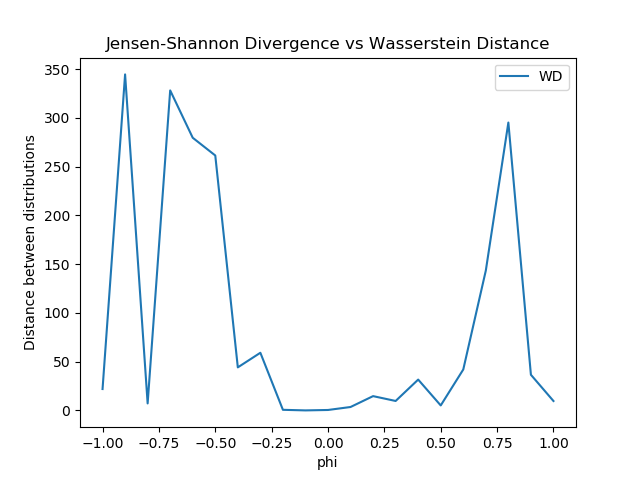
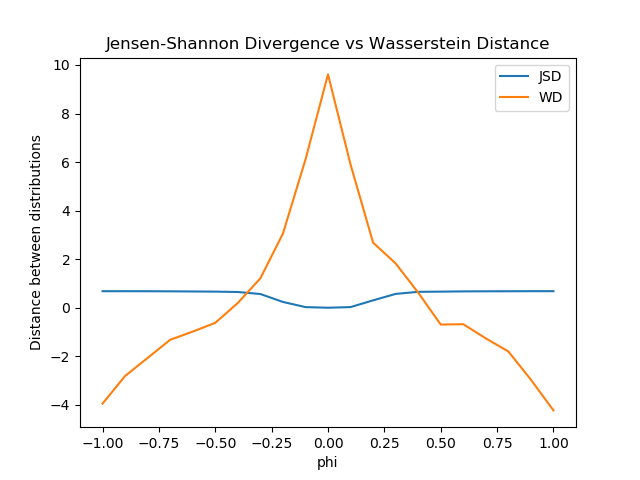
Grad clip z for q1_3

diff --git a/problem1/q1_3.py b/problem1/q1_3.py
@@ -17,7 +17,7 @@ from assignment.problem1.loss_functions import jsd_loss, wd_loss
 
 
 def plot(phi, jsds, wds):
-    #plt.plot(phi, jsds, label='JSD')
+    plt.plot(phi, jsds, label='JSD')
     plt.plot(phi, wds, label='WD')
     plt.title('Jensen-Shannon Divergence vs Wasserstein Distance')
     plt.xlabel('phi')
@@ -51,21 +51,21 @@ if __name__ == '__main__':
         print('PHI:', ph)
 
         # Train discriminators
-        '''print('Training JSD...')
+        print('Training JSD...')
         jsd = MLP(jsd_config, device=device)
-        jsd.train(p, q, loss_fn=jsd_loss, dist_type='jsd', num_epochs=400)'''
+        jsd.train(p, q, loss_fn=jsd_loss, dist_type='jsd', num_epochs=400)
 
         print('Training WD...')
         wd = MLP(wd_config, device=device)
-        wd.train(p, q, loss_fn=wd_loss, lr=1e-3, dist_type='wd', num_epochs=400)
+        wd.train(p, q, loss_fn=wd_loss, lr=1e-3, dist_type='wd', num_epochs=200)
 
         # Sample from p and q
         x = next(p)
         y = next(q)
 
         # Call JSD and WD predictions
-        #jsd_xy = jsd.estimate_jsd(x, y).cpu().detach().numpy()
-        #jsds.append(jsd_xy)
+        jsd_xy = jsd.estimate_jsd(x, y).cpu().detach().numpy()
+        jsds.append(jsd_xy)
         wd_xy = wd.estimate_wd(x, y).cpu().detach().numpy()
         wds.append(wd_xy)
 

diff --git a/problem1/loss_functions.py b/problem1/loss_functions.py
@@ -25,18 +25,23 @@ def wd_loss(Dx, Dy, grad=None, lamb=10):
     #grad = grad[0]  # Take first item in mysterious tuple
     #print('norm:', torch.norm(grad))
     #print('norm-1 :', (torch.norm(grad) - 1))
-    #print('norm-1 pow:', (torch.norm(grad) - 1).pow(2))
-    grad_penalty = lamb * (torch.norm(grad) - 1).pow(2).mean()
-    #print('grad_penalty:', grad_penalty)
+    # print('norm-1 pow:', (torch.norm(grad, dim=1) - 1).pow(2))
+
+
+    grad_penalty = lamb * (torch.norm(grad, dim=1) - 1).pow(2).mean()
+
+    # grad_penalty = lamb * math.pow((grad - 1), 2)
+
+    # print('grad_penalty:', grad_penalty)
     
 
-    #loss = Dx.mean() - Dy.mean() - grad_penalty
+    # loss = Dx.mean() - Dy.mean() - grad_penalty
     #loss = Dy.mean() - Dx.mean() - grad_penalty
     loss = Dy.mean() - Dx.mean() + grad_penalty
-    #loss = Dx.mean() - Dy.mean() + grad_penalty
+    # loss = Dx.mean() - Dy.mean() + grad_penalty
 
 
 
     # We want to maximize this objective, not minimize it, so we negate it
-    #loss = -1 * loss
+    # loss = -1 * loss
     return loss

diff --git a/problem1/mlp.py b/problem1/mlp.py
@@ -70,7 +70,12 @@ class MLP():
         #print('Dz mean:', Dz.mean())
         #Dz.mean().backward()
         Dz.backward(torch.ones_like(Dz))
-        grad = z.grad
+        clip = 1
+        grad = z.grad.data.clamp_(-clip, clip)
+        # print("z.grad", z.grad)
+        # grad = torch.nn.utils.clip_grad_norm(z, 1)
+
+        # print("grad clip", grad)
         return grad
 
     def train(self, p, q, loss_fn=None, lr=1e-2, num_epochs=60, dist_type='jsd'):
